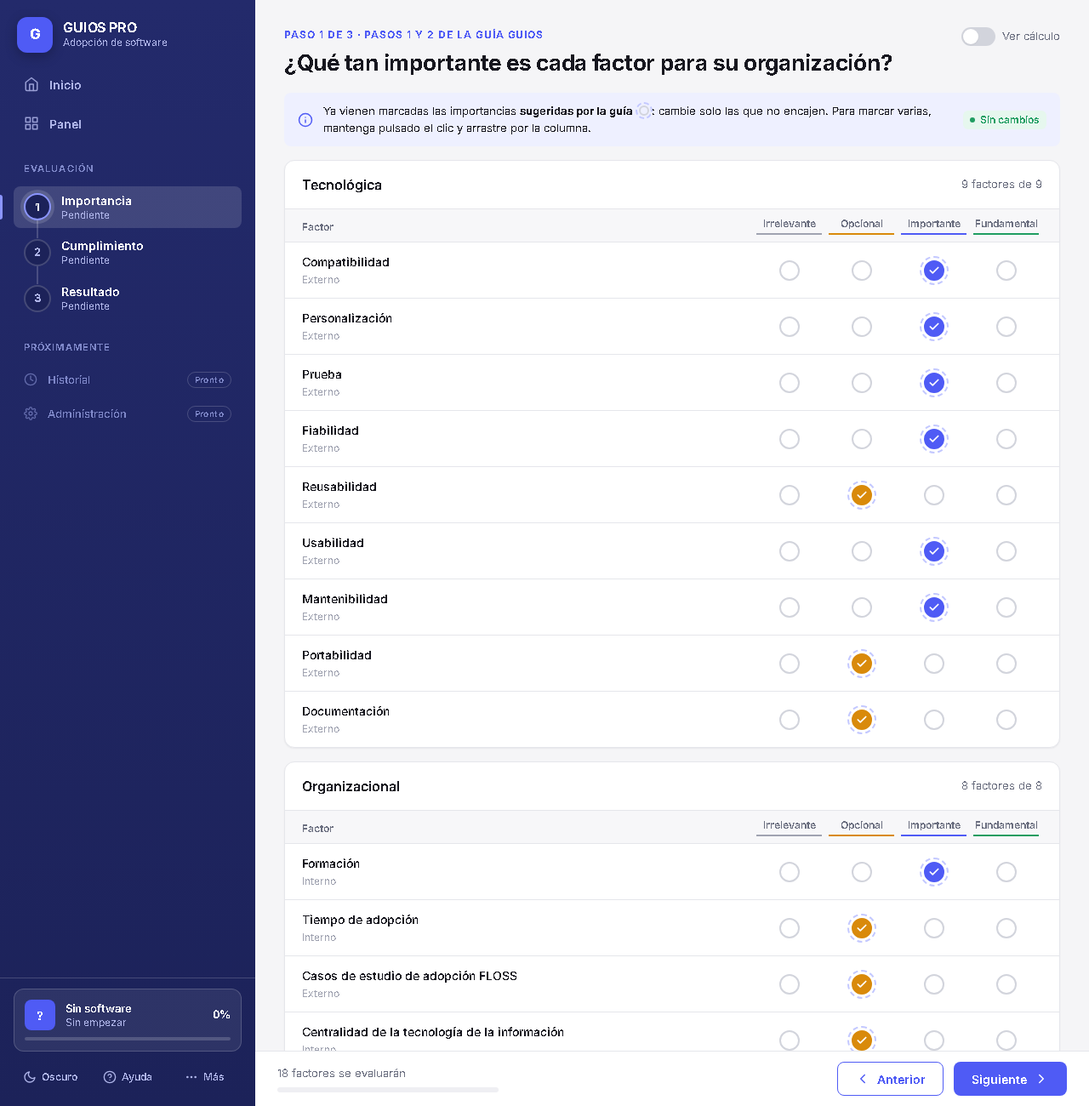
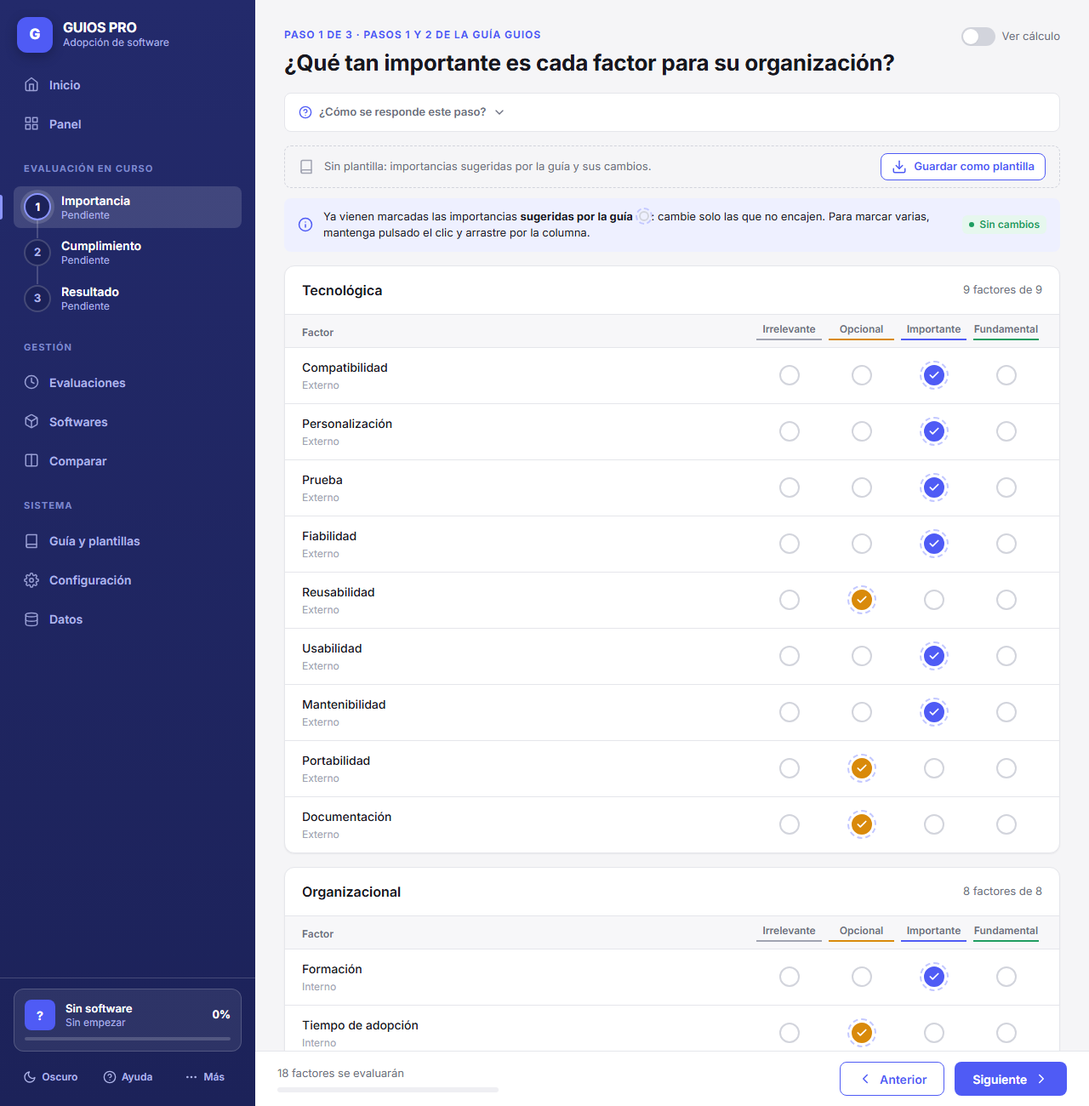
docs: estado de implementación, sistema de diseño y capturas nuevas
- SPRINT-0: RF-10 a RF-30 marcados, estado por módulo, desviaciones y
  pendientes; se retira la sección 3.5 duplicada que trajo la rama
  requisitos (ya resuelta por la renumeración del 27/09).
- README, CLAUDE.md y DESIGN-SYSTEM con los módulos y componentes nuevos.
- Capturas regeneradas, con las 12 pantallas nuevas.

diff --git a/scripts/screenshots.py b/scripts/screenshots.py
@@ -42,6 +42,19 @@ SHOTS = [
     ("09-panel-vacio", "panel", "?theme=light", 1280, 800),
     ("10-paso-3-4-vacio", "paso-3-4", "?theme=light", 1280, 900),
     ("11-movil-paso-1-2", "paso-1-2", "?theme=light", 500, 1400),
+    # Pantallas de gestión (Sprints 1-4). El demo carga Moodle, Chamilo y Open edX.
+    ("12-evaluaciones", "evaluaciones", "?demo=1&theme=light", 1280, 900),
+    ("13-detalle", "evaluacion/ev_demo_moodle", "?demo=1&theme=light", 1280, 1400),
+    ("14-informe", "informe/ev_demo_moodle", "?demo=1&theme=light", 1280, 2400),
+    ("15-comparar", "comparar/ev_demo_moodle,ev_demo_chamilo", "?demo=1&theme=light", 1280, 2000),
+    ("16-softwares", "softwares", "?demo=1&theme=light", 1280, 800),
+    ("17-ficha-software", "software/sw_demo_moodle", "?demo=1&theme=light", 1280, 900),
+    ("18-administracion", "administracion", "?demo=1&theme=light", 1280, 1100),
+    ("19-configuracion", "configuracion", "?theme=light", 1280, 1100),
+    ("20-datos", "datos", "?demo=1&theme=light", 1280, 1300),
+    ("21-comparar-oscuro", "comparar/ev_demo_moodle,ev_demo_chamilo", "?demo=1&theme=dark", 1280, 1200),
+    ("22-movil-evaluaciones", "evaluaciones", "?demo=1&theme=light", 500, 1200),
+    ("23-movil-informe", "informe/ev_demo_moodle", "?demo=1&theme=light", 500, 2400),
 ]
 
 

diff --git a/docs/SPRINT-0.md b/docs/SPRINT-0.md
@@ -59,8 +59,8 @@ La decisión de adoptar un software (por ejemplo, migrar de una suite privativa 
 | P4 | Paso 5: clasificación FODA automática | Hecho |
 | P5 | Paso 6: recomendación A/B/C según matriz + factores críticos | Hecho |
 | P6 | Informe exportable (PDF por impresión, JSON) e importación | Hecho |
-| P7 | Catálogo de software y evaluaciones guardadas en servidor (PostgreSQL) | Diseñado (`db/schema.sql`), Sprint 2-3 |
-| P8 | Comparación de varios candidatos y panel del decisor | Sprint 4 |
+| P7 | Catálogo de software y evaluaciones guardadas en servidor | Hecho: catálogo local y servidor `api/` (SQLite; diseño PostgreSQL en `db/schema.sql`) |
+| P8 | Comparación de varios candidatos y panel del decisor | Hecho |
 
 ### 2.5 ¿Cómo mejorará el nuevo sistema? — Propuesta (TO-BE)
 
@@ -91,27 +91,27 @@ Interfaz sin guía                          → UI kit consistente, responsive y
 | RF-07 | Emitir la recomendación A/B/C con el texto de la matriz e indicar los factores críticos. | Alta | 0 ✔ |
 | RF-08 | Exportar el informe (PDF) y los datos (JSON); importar una evaluación previa. | Media | 0 ✔ |
 | RF-09 | Guardar el avance automáticamente y permitir limpiar los datos de una evaluación anterior, con confirmación. | Media | 0 ✔ |
-| RF-10 | Persistir evaluaciones en un servidor con historial por organización. | Alta | 2-3 |
-| RF-11 | Registrar y consultar los softwares candidatos en un catálogo reutilizable. | Alta | 2 |
-| RF-12 | Administrar el catálogo de la guía (factores, subfactores, reglas) desde la interfaz. | Media | 3 |
-| RF-13 | Comparar varias evaluaciones/candidatos en un tablero. | Media | 4 |
-| RF-14 | Adjuntar observaciones/evidencias por subfactor. | Baja | 4 |
+| RF-10 | Persistir evaluaciones en un servidor con historial por organización. | Alta | 2-3 ✔ |
+| RF-11 | Registrar y consultar los softwares candidatos en un catálogo reutilizable. | Alta | 2 ✔ |
+| RF-12 | Administrar el catálogo de la guía (factores, subfactores, reglas) desde la interfaz. | Media | 3 ✔ |
+| RF-13 | Comparar varias evaluaciones/candidatos en un tablero. | Media | 4 ✔ |
+| RF-14 | Adjuntar observaciones/evidencias por subfactor. | Baja | 4 ✔ |
 | RF-15 | Navegar libremente entre los pasos y ver el detalle del cálculo de cada resultado. | Alta | 0 ✔ |
-| RF-16 | Guardar los datos de la organización y las preferencias del usuario una sola vez. | Alta | 1 |
-| RF-17 | Mostrar ayuda contextual en cada paso, incluido el significado de cada nivel de la escala. | Alta | 1 |
-| RF-18 | Avisar de los factores sin responder y marcar el resultado como parcial. | Alta | 1 |
-| RF-19 | Buscar factores por nombre y filtrar los que están pendientes. | Media | 1 |
-| RF-20 | Mostrar un dashboard con el estado de las evaluaciones, el avance, la distribución FODA y el cumplimiento por dimensión. | Alta | 1, 4 |
-| RF-21 | Listar las evaluaciones propias, con opciones de continuar, duplicar, eliminar y abrir en solo lectura. | Alta | 2, 4 |
-| RF-22 | Mostrar gráficos de resultados: radar por dimensión y barras de la matriz FODA. | Alta | 2 |
-| RF-23 | Generar un informe imprimible con portada, recomendación, FODA, gráficos y detalle por factor. | Media | 2, 5 |
-| RF-24 | Mostrar la línea de tiempo de las evaluaciones de un software. | Media | 3 |
-| RF-25 | Guardar y reutilizar plantillas de importancia de factores. | Media | 3 |
-| RF-26 | Importar y exportar softwares, plantillas y evaluaciones. | Media | 4 |
-| RF-27 | Asignar etiquetas y notas internas a cada software del catálogo. | Baja | 4 |
-| RF-28 | Sugerir con IA la valoración de cada subfactor, con justificación y nivel de confianza; el evaluador acepta o descarta cada sugerencia. | Alta | 2-3 |
-| RF-29 | Generar con IA un resumen ejecutivo editable que no contradiga la recomendación calculada. | Alta | 4 |
-| RF-30 | Sincronizar las evaluaciones locales con el servidor y resolver conflictos entre versiones. | Alta | 3 |
+| RF-16 | Guardar los datos de la organización y las preferencias del usuario una sola vez. | Alta | 1 ✔ |
+| RF-17 | Mostrar ayuda contextual en cada paso, incluido el significado de cada nivel de la escala. | Alta | 1 ✔ |
+| RF-18 | Avisar de los factores sin responder y marcar el resultado como parcial. | Alta | 1 ✔ |
+| RF-19 | Buscar factores por nombre y filtrar los que están pendientes. | Media | 1 ✔ |
+| RF-20 | Mostrar un dashboard con el estado de las evaluaciones, el avance, la distribución FODA y el cumplimiento por dimensión. | Alta | 1, 4 ✔ |
+| RF-21 | Listar las evaluaciones propias, con opciones de continuar, duplicar, eliminar y abrir en solo lectura. | Alta | 2, 4 ✔ |
+| RF-22 | Mostrar gráficos de resultados: radar por dimensión y barras de la matriz FODA. | Alta | 2 ✔ |
+| RF-23 | Generar un informe imprimible con portada, recomendación, FODA, gráficos y detalle por factor. | Media | 2, 5 ✔ |
+| RF-24 | Mostrar la línea de tiempo de las evaluaciones de un software. | Media | 3 ✔ |
+| RF-25 | Guardar y reutilizar plantillas de importancia de factores. | Media | 3 ✔ |
+| RF-26 | Importar y exportar softwares, plantillas y evaluaciones. | Media | 4 ✔ |
+| RF-27 | Asignar etiquetas y notas internas a cada software del catálogo. | Baja | 4 ✔ |
+| RF-28 | Sugerir con IA la valoración de cada subfactor, con justificación y nivel de confianza; el evaluador acepta o descarta cada sugerencia. | Alta | 2-3 ✔ |
+| RF-29 | Generar con IA un resumen ejecutivo editable que no contradiga la recomendación calculada. | Alta | 4 ✔ |
+| RF-30 | Sincronizar las evaluaciones locales con el servidor y resolver conflictos entre versiones. | Alta | 3 ✔ |
 
 ### 3.2 Requisitos no funcionales
 
@@ -137,7 +137,7 @@ Interfaz sin guía                          → UI kit consistente, responsive y
 
 ### 3.3 Product Backlog inicial
 
-> **Versión vigente y ampliada:** la lista completa de requisitos (RF-01 a RF-26), el backlog con las 36 historias y su trazabilidad están en [`ENTREGA-TAREA1.md`](ENTREGA-TAREA1.md), que es el documento que se entrega. La tabla siguiente conserva el backlog inicial del Sprint 0.
+> **Versión vigente y ampliada:** la lista completa de requisitos (RF-01 a RF-26), el backlog con las 36 historias y su trazabilidad están en [`ENTREGA-TAREA1.md`](ENTREGA-TAREA1.md), que es el documento que se entrega. La tabla siguiente conserva el backlog inicial del Sprint 0. Las filas HU-14 en adelante se añadieron desde la rama `requisitos` con la numeración anterior a la renumeración del 27/09/2026 (ver §3.5); para los identificadores vigentes, usar `ENTREGA-TAREA1.md` y `jira/tareas.json`.
 
 | ID | Historia de usuario | Criterios de aceptación | Prioridad | Puntos | Sprint |
 |---|---|---|---|---|---|
@@ -199,20 +199,6 @@ Además, tres requisitos ya incluidos en la sección 3.1 quedan sujetos a confir
 - **RF-05:** el valor «No sé» cuenta hoy como 2 en la media (pregunta 5).
 - **RF-07:** la nomenclatura de las recomendaciones A/B/C y el criterio de decisión difieren entre la tesis y la matriz de 2021 (preguntas 1 y 3).
 
-### 3.5 Pendiente: numeración incompleta en el Product Backlog
-
-Al construir la tabla de la sección 3.3 se detectó que los IDs **HU-21, HU-29, HU-32 y
-HU-33** no existen ni en [`docs/jira/tareas.json`](jira/tareas.json) (la fuente de
-verdad) ni en [`docs/jira/TAREAS.md`](jira/TAREAS.md). La numeración salta de HU-20 a
-HU-22, y de HU-31 a HU-34.
-
-Se descarta que sea un desfase entre el JSON y el `.md` generado, porque el problema
-está también en el JSON.
-
-**Pendiente:** confirmar con el responsable de `tareas.json` si esas historias existieron
-y se perdieron, o si nunca se llegaron a escribir. Si aparecen, se agregarán a la tabla
-de la sección 3.3.
-
 ### 3.5 Numeración y trazabilidad de las historias
 
 Se revisó la numeración tras detectar huecos (HU-21, HU-29, HU-32 y HU-33 no existían). El origen fue la eliminación del módulo de cuentas de usuario del alcance: las historias de registro, inicio de sesión, permisos, perfil e invitaciones se retiraron y dejaron su número libre.
@@ -224,6 +210,37 @@ Se revisó la numeración tras detectar huecos (HU-21, HU-29, HU-32 y HU-33 no e
 - **HU-09** se implementa en tres tareas (HU-09a API de evaluaciones, HU-09b API de historial, HU-09c pantalla de historial), por lo que conserva el sufijo.
 
 La fuente de verdad es [`jira/tareas.json`](jira/tareas.json); `npm run build:jira` regenera la tabla y el CSV del tablero, de modo que no pueden volver a desincronizarse.
+
+### 3.6 Estado de implementación (16/11/2026)
+
+Todos los requisitos funcionales comprometidos (RF-01 a RF-30) están implementados en `main`, y la app sigue abriéndose con doble clic. El recorrido completo se verificó en Edge con el servidor y la IA simulada: alta, plantilla, respuestas con evidencias, aviso de pendientes, sugerencias de IA, resumen, sincronización, catálogo, nueva versión de la guía, comparación y vista a 390 px.
+
+| Módulo del alcance | Dónde está | Requisitos |
+|---|---|---|
+| M1 · Configuración | Pantalla *Configuración*: organización, sector, logotipo, evaluador por defecto, tema y servidor, con aviso al salir sin guardar | RF-16 |
+| M2 · Catálogo de software | *Softwares* (buscador, filtros por licencia y etiqueta) y *Ficha* (datos, notas, etiquetas con color y evaluaciones asociadas); al empezar una evaluación se elige del catálogo | RF-11, RF-27 |
+| M3 · Evaluación | Pasos 1-3 con ayuda plegable (textos en `data/recomendaciones.json`), plantillas, buscador y filtro de pendientes, observación y enlace por pregunta, aviso de pendientes con enlace a cada factor | RF-14, RF-17, RF-18, RF-19, RF-25 |
+| M4 · Dashboard e informes | *Panel* con todas las evaluaciones y línea de tiempo filtrable; *Informe* con portada, recomendación, resumen ejecutivo, FODA, radar por dimensión, barras FODA con tabla equivalente, detalle y evidencias | RF-20, RF-22, RF-23, RF-24 |
+| M5 · Historial y comparación | *Evaluaciones* (buscar, filtrar por estado, continuar, duplicar, eliminar), *Detalle* en solo lectura y *Comparar* (2 a 5 evaluaciones completadas) | RF-13, RF-21 |
+| M6 · Administración de la guía | *Guía y plantillas*: edición validada de factores, subfactores y textos de recomendación, publicada como versión nueva; cada evaluación conserva su versión; restaurar la oficial | RF-12, RF-25, RNF-17 |
+| M7 · Asistente de IA | Botón *Sugerir con IA* por factor (aceptar o descartar cada sugerencia, origen marcado) y *Redactar con IA* el resumen (validado contra la recomendación calculada) | RF-28, RF-29, RNF-13, RNF-14 |
+| M8 · Portabilidad | *Datos*: exportar una selección, importar con vista previa y resolución de duplicados (compatible con el JSON anterior), sincronización con conflictos | RF-10, RF-26, RF-30, RNF-12 |
+
+Servidor (`api/`): API REST documentada en `api/openapi.yaml`, catálogo con la misma forma que `data.js`, CRUD de softwares y plantillas, evaluaciones con revisiones, sincronización por lotes, dashboard, comparación, informe HTML e IA (Claude) con límite diario por organización. Reutiliza `engine.js`, así que servidor y navegador calculan lo mismo (RNF-11, con prueba).
+
+**Decisiones y desviaciones a validar con el equipo:**
+
+- El servidor usa **SQLite embebido** (`node:sqlite`, `api/schema.sqlite.sql`) para no añadir dependencias; `db/schema.sql` sigue siendo el diseño PostgreSQL para un despliegue institucional.
+- El umbral FODA y las condiciones de la matriz **no** se editan desde la administración, porque RF-35 sigue pendiente de validación (§3.4).
+- Las versiones locales de la guía viven en el navegador. El servidor valida contra el catálogo oficial, así que rechaza las evaluaciones que usan subfactores añadidos localmente; la pantalla *Datos* las muestra como rechazadas.
+
+**Pendiente (no se puede cerrar solo con código):**
+
+- RNF-15: faltan los 30 casos de referencia reales en `api/ia/casos/` (hay 2 de ejemplo) para medir la calidad de la IA con `api/ia/evaluar-calidad.js`.
+- RNF-16: la política de datos está redactada en `api/README.md`, pero debe aprobarse por escrito antes de usar una clave real.
+- RNF-07 y RNF-06 (HTTPS): dependen del despliegue institucional, que está fuera del alcance (§1.3 de `ENTREGA-TAREA1.md`).
+- RNF-09: falta medir Lighthouse en las pantallas principales.
+- Los requisitos de §3.4 (RF-31 a RF-36) siguen esperando la respuesta del docente.
 
 ## 4. Análisis y diseño
 

diff --git a/docs/DESIGN-SYSTEM.md b/docs/DESIGN-SYSTEM.md
@@ -6,7 +6,7 @@ Implementación en CSS del UI kit de referencia (capturas: Pop-Up, List, Action 
 |---|---|
 | `tokens.css` | Variables CSS (`:root`) para color, tipografía, espaciado, radios, sombras; variante oscura bajo `[data-theme="dark"]` |
 | `components.css` | Componentes reutilizables, sin conocimiento de la app |
-| `app.css` | Layout de las cinco pantallas (Inicio, pasos 1-3 y Panel), sidebar, impresión y breakpoints |
+| `app.css` | Layout de las pantallas (Inicio, pasos 1-3, Panel, Evaluaciones, Detalle, Informe, Comparar, Softwares, Ficha, Guía y plantillas, Configuración, Datos), sidebar, impresión y breakpoints |
 
 ## Tokens
 
@@ -33,6 +33,8 @@ Implementación en CSS del UI kit de referencia (capturas: Pop-Up, List, Action 
 | `--sidebar-fg / -fg-2 / -fg-3` | `#ffffff` / `#aeb4e8` / `#7f88c9` | Texto del sidebar: principal, secundario y atenuado |
 | `--sidebar-hover / -active / -line` | blancos translúcidos | Estados y conectores sobre la superficie de marca |
 | `--sidebar-accent` | `#8b95ff` | Indicador de la sección actual, paso actual y barra de progreso del sidebar |
+| `--series-1 … -5` | azul `#2a78d6`, naranja `#eb6834`, aguamarina `#1baf7a`, ámbar `#eda100`, magenta `#e87ba4` (variantes para oscuro) | Series categóricas de los gráficos, en orden fijo. Validadas para daltonismo; como dos tonos quedan por debajo de 3:1 sobre blanco, **siempre** van con leyenda numerada y tabla equivalente |
+| `--chart-grid` | `#e5e6eb` | Anillos y ejes de los gráficos |
 
 ## Componentes (clase → equivalente del UI kit)
 
@@ -65,7 +67,7 @@ Implementación en CSS del UI kit de referencia (capturas: Pop-Up, List, Action 
 | `.foda-board` (`.foda-q`, `.foda-core`) | — | **Matriz FODA**: cuatro cuadrantes sólidos (`--q` = `--foda-*-solid`) con icono, título, conteo y lista de factores en blanco con su cumplimiento medio; la fila inferior va en espejo (título en el borde exterior). En el centro, un núcleo circular F·O·D·A con anillo de cuatro colores (`conic-gradient`). Encima, `.foda-axis` (origen interno / externo). En móvil: una columna, sin núcleo y con la letra junto al título |
 | `.foda-balance` | — | Balance a favor / en contra en la cabecera de la tarjeta FODA: dos cifras y barra proporcional |
 | `.toast` | — | Notificación efímera |
-| `.sidebar` (`.side-top`, `.side-nav`, `.side-link`, `.side-title`, `.side-bottom`) | List + Card | Barra lateral fija de 300 px sobre superficie sólida de marca: logo; Inicio y Panel (`app.js → NAV_MAIN`); línea de tiempo de los pasos; «Próximamente» (`NAV_EXTRA`, `soon: true` = enlace atenuado con `.soon`). La sección actual lleva un indicador vertical de 3 px en `--sidebar-accent`. Por debajo de 960 px se convierte en cajón (`.is-open`) con `.sidebar-backdrop` |
+| `.sidebar` (`.side-top`, `.side-nav`, `.side-link`, `.side-title`, `.side-bottom`) | List + Card | Barra lateral fija de 300 px sobre superficie sólida de marca: logo; Inicio y Panel (`app.js → NAV_MAIN`); línea de tiempo de los pasos; grupos Gestión y Sistema (`NAV_GROUPS`); `.soon.is-alert` muestra un contador rojo (p. ej. conflictos de sincronización). La sección actual lleva un indicador vertical de 3 px en `--sidebar-accent`. Por debajo de 960 px se convierte en cajón (`.is-open`) con `.sidebar-backdrop` |
 | `.side-eval` | Card: Horizontal | Tarjeta de la evaluación en curso en el pie: avatar con la inicial del software, nombre, estado (o recomendación), % y barra; enlaza al Panel |
 | `.side-actions > .side-tool` | — | Barra de herramientas del pie con icono + etiqueta: tema (Oscuro/Claro), Ayuda y Más (menú `.menu-up`) |
 | `.side-steps > .side-step` | Page Control (vertical) | **Línea de tiempo**: nodo de 32 px (`--node`) con el número del paso o un check al completarse, riel vertical continuo entre nodos que se colorea al avanzar, y texto en dos niveles (`.step-title`, `.step-state`). El enlace lleva `aria-label` completo («Paso 1 de 3: …»); `.is-current`, `.is-done` |
@@ -78,6 +80,23 @@ Implementación en CSS del UI kit de referencia (capturas: Pop-Up, List, Action 
 | `.subfactor-row` | List | Pregunta del paso 2 con su `.choice`. `.is-active` (fondo suave y barra izquierda) marca la pregunta que responden las teclas 1-4; `.is-answered` atenúa el texto y pone un check en el índice |
 | `.quick-fill` | — | Franja del paso 2: «Responder las n pendientes como: Cumple / Parcial / No cumple» (no pisa las ya respondidas) |
 | `kbd` | — | Tecla de atajo |
+| `.tabs > .tab` | — | Pestañas (`role="tab"`, `aria-selected`) de *Guía y plantillas* |
+| `.tag`, `.tag-{primary,success,warning,danger,info,neutral}`, `.tag-row` | List → chip | Etiqueta de color de un software, con icono; dentro de formularios lleva botón de quitar |
+| `.toolbar` + `.search` | — | Barra de filtros encima de una lista: búsqueda con icono, `select-sm` y contador. El campo conserva el foco al re-renderizar |
+| `.rows > .row-item` | List | Fila con varias acciones (historial, versiones): casilla, avatar, `.row-main` (título enlazado, metadatos, `.row-meta` con badges) y `.row-actions`. En móvil las acciones bajan a una segunda línea |
+| `.help-box` + `.level-list` | — | Ayuda plegable de cada paso (HU-14) con un recuadro por nivel de la escala, coloreado con `--c` |
+| `.template-bar` | — | Franja del paso 1: plantilla aplicada, aplicar otra y guardar como plantilla |
+| `.note-btn`, `.note-editor` | — | Observación y enlace de evidencia por pregunta del paso 2 |
+| `.ia-suggestion` | — | Sugerencia de IA bajo la pregunta: valor, confianza, justificación y botones Aceptar / Descartar. La respuesta aceptada lleva un `.badge-xs` «IA» |
+| `.hbars > .hbar` | — | Barras horizontales de una serie (FODA) con etiqueta y valor en texto |
+| `.chart` (SVG de `charts.js`) | — | Radar por dimensión: anillos 1-4, anillo discontinuo del umbral FODA, áreas con `--s` al 12 % y puntos con `<title>` como tooltip. Siempre con tabla equivalente en `.chart-table` |
+| `.timeline` | Page Control (vertical) | Línea de tiempo del panel: círculo con la letra de la recomendación (relleno `--foda-*-solid`), software y fecha; cada elemento abre el informe |
+| `.meta-grid`, `.report-meta` | — | Rejilla de datos (3 → 2 → 1 columnas) del detalle y de la portada del informe |
+| `.pick` + `.series-key` | — | Selección de evaluaciones en el comparador: el número y el borde llevan el color de su serie |
+| `.compare-table` | — | Tabla del comparador: grupos (`.group-row`), mejor valor de la fila con estrella y negrita (`.is-best`), primera columna fija en móvil |
+| `.link-btn` | — | Botón con aspecto de enlace dentro de un texto |
+| `.popup.popup-wide` | Pop-Up | Pop-up para formularios (alta de software). `onConfirm` puede devolver `false` para mantenerlo abierto con un error |
+| `.admin-savebar` | — | Barra fija inferior del editor de la guía con errores de validación y «Guardar como versión nueva» |
 
 Iconos: SVG inline estilo *feather* (24 px, trazo 2) definidos en `app.js → ICONS`. Añadir uno nuevo = añadir la ruta al diccionario.
 

diff --git a/README.md b/README.md
@@ -6,7 +6,8 @@ Sistema informático que automatiza la **guía GUIOS** para evaluar si una soluc
 |---|---|
 | **Modelo** | 3 dimensiones (Tecnológica, Organizacional, Económica) · 18 factores · 61 subfactores |
 | **Flujo** | 3 pasos para el usuario: Importancia (GUIOS 1-2) → Cumplimiento (GUIOS 3-4) → Resultado: FODA y recomendación A/B/C (GUIOS 5-6) |
-| **Stack actual** | HTML + CSS + JavaScript sin dependencias. Se abre con doble clic. |
+| **Módulos** | Configuración · Catálogo de softwares (etiquetas, ficha) · Evaluación en 3 pasos (ayuda, buscador, avisos, evidencias) · Panel con línea de tiempo · Historial y detalle en solo lectura · Informe imprimible con gráficos · Comparador de 2 a 5 candidatos · Administración versionada de la guía y plantillas · Importar/exportar · Sincronización y asistente de IA opcionales |
+| **Stack actual** | Cliente: HTML + CSS + JavaScript sin dependencias, se abre con doble clic. Servidor opcional ([`api/`](api/)): Node ≥ 22 sin dependencias, SQLite embebido e IA de Claude. |
 | **Metodología** | SCRUM · ver [`docs/SPRINT-0.md`](docs/SPRINT-0.md) |
 | **Base teórica** | Tesis doctoral Rea Sánchez (2022) · resumen y dudas abiertas en [`docs/REUNION-DOCENTE.md`](docs/REUNION-DOCENTE.md) |
 | **Entrega del avance** | [`docs/entregables/TAREA1-GUIOS-PRO.docx`](docs/entregables/TAREA1-GUIOS-PRO.docx) (informe en Word) · contenido en [`docs/ENTREGA-TAREA1.md`](docs/ENTREGA-TAREA1.md) · figuras en [`docs/graficos/`](docs/graficos/) |
@@ -18,7 +19,19 @@ Sistema informático que automatiza la **guía GUIOS** para evaluar si una soluc
 2. Abrir [`app/index.html`](app/index.html) en Chrome, Edge o Firefox (no requiere servidor ni instalación).
 3. Opcional, con servidor local: `npm run serve` → http://localhost:8080
 
-Para ver el flujo completo con datos de prueba: menú **Más → Cargar ejemplo** o abrir `app/index.html?demo=1`; el estado general está en **Panel** (`#panel`). El botón **Oscuro/Claro** del pie del sidebar cambia el tema. En el paso 2 las teclas `1`–`4` responden la pregunta resaltada.
+Para ver el flujo completo con datos de prueba: menú **Más → Cargar ejemplo** o abrir `app/index.html?demo=1` (carga Moodle, Chamilo y Open edX). El estado general está en **Panel** (`#panel`), el historial en **Evaluaciones** y la comparación en **Comparar**. En el paso 2 las teclas `1`–`4` responden la pregunta resaltada.
+
+### Servidor opcional (sincronización e IA)
+
+Sin servidor la aplicación funciona completa con los datos del navegador. Para sincronizar varios equipos y activar el asistente de IA:
+
+```bash
+npm run api                                   # http://localhost:8787 (SQLite en api/data/)
+IA_PROVEEDOR=simulado npm run api             # demo de la IA sin clave
+ANTHROPIC_API_KEY=... npm run api             # IA real; la clave solo vive en el servidor
+```
+
+Después, en la app: **Configuración → Usar servidor** con la dirección `http://localhost:8787`. Detalles, variables de entorno y política de privacidad en [`api/README.md`](api/README.md); contrato en [`api/openapi.yaml`](api/openapi.yaml).
 
 ## Estructura
 
@@ -30,21 +43,26 @@ app/                 Aplicación web (entregable ejecutable)
   css/app.css        Layout de pantallas, impresión y responsive
   js/data.js         GENERADO desde data/ — catálogo de dimensiones/factores/subfactores
   js/engine.js       Motor de cálculo (lógica pura, probada con node --test)
-  js/app.js          Interfaz: render por pantallas, estado en localStorage, exportar/importar
+  js/store.js        Almacén local: evaluaciones, softwares, plantillas, versiones de la guía, import/export
+  js/charts.js       Gráficos SVG (radar por dimensión)
+  js/api.js          Cliente del servidor opcional: sincronización con conflictos e IA
+  js/app.js          Interfaz: render por pantallas (SCREENS[]) y eventos
+api/                 Servidor REST opcional (Node sin dependencias, SQLite, IA), OpenAPI y pruebas
 data/                Fuente de verdad de los datos maestros (TSV + JSON)
 db/                  Diseño físico PostgreSQL (schema.sql) y seed GENERADO (seed.sql)
 docs/                Sprint 0, sistema de diseño, plan con IA, equipo y cronograma
   jira/              Reparto de tareas (tareas.json) y CSV importable a Jira
 legacy/              Prototipo GUIOSAD original, manual técnico y matriz de recomendación
 scripts/             Generadores: CSV -> data.js, data.js -> seed.sql
-tests/               Pruebas del motor de cálculo
+tests/               Pruebas del motor de cálculo y del almacén local
 .github/workflows/   CI: regenera datos, ejecuta pruebas y publica en GitHub Pages
 ```
 
 ## Comandos
 
 ```bash
-npm test               # pruebas del motor (node --test)
+npm test               # pruebas del motor, del almacén y de la API (node --test)
+npm run api            # servidor REST opcional en :8787
 npm run build:data     # regenerar app/js/data.js y db/seed.sql desde data/
 npm run check:generated# falla si los archivos generados están desactualizados
 npm run serve          # servidor estático en :8080
@@ -53,7 +71,7 @@ npm run build:diagramas# regenera las figuras del informe en docs/graficos/
 npm run build:informe  # regenera docs/entregables/TAREA1-GUIOS-PRO.docx
 ```
 
-Requisitos de desarrollo: Node ≥ 20 y Python ≥ 3.10 (solo para los generadores). La app final no necesita ninguno.
+Requisitos de desarrollo: Node ≥ 22 (pruebas y servidor; usa `node:sqlite`) y Python ≥ 3.10 (solo para los generadores). La app final no necesita ninguno.
 
 ## Modificar el modelo (factores / subfactores / recomendaciones)
 

diff --git a/CLAUDE.md b/CLAUDE.md
@@ -4,11 +4,12 @@ Este archivo lo lee Claude Code (y otros asistentes) al abrir el repositorio. Re
 
 ## Qué es
 
-Sistema de evaluación de adopción de software basado en la guía GUIOS (tesis doctoral Rea Sánchez, 2022). Proyecto académico (Ingeniería de Software, asignatura Metodologías Ágiles) gestionado con SCRUM. El entregable ejecutable es `app/index.html`: **debe seguir funcionando al abrirse con doble clic** (protocolo `file://`, sin servidor, sin build, sin `fetch()`, sin ES modules).
+Sistema de evaluación de adopción de software basado en la guía GUIOS (tesis doctoral Rea Sánchez, 2022). Proyecto académico (Ingeniería de Software, asignatura Metodologías Ágiles) gestionado con SCRUM. El entregable ejecutable es `app/index.html`: **debe seguir funcionando al abrirse con doble clic** (protocolo `file://`, sin servidor, sin build, sin `fetch()` de archivos locales, sin ES modules). El único `fetch()` permitido es el de `app/js/api.js` hacia el servidor opcional (`api/`), y la app debe funcionar igual si el servidor no está.
 
 ## Comandos
 
-- `npm test` — pruebas del motor (obligatorio antes de cada commit que toque `engine.js` o `data/`).
+- `npm test` — pruebas del motor, del almacén local y de la API (obligatorio antes de cada commit que toque `engine.js`, `store.js`, `api/` o `data/`). Requiere Node ≥ 22.13 (`node:sqlite`).
+- `npm run api` — servidor REST opcional en :8787 (`IA_PROVEEDOR=simulado` para probar la IA sin clave).
 - `npm run build:data` — regenera `app/js/data.js` y `db/seed.sql`. **Nunca editar esos dos archivos a mano.**
 - `npm run serve` — servidor local en :8080 (opcional).
 - Verificación visual: abrir `app/index.html?demo=1#paso-5-6` (carga una evaluación de ejemplo).
@@ -19,10 +20,11 @@ Sistema de evaluación de adopción de software basado en la guía GUIOS (tesis 
 2. **Lógica de cálculo solo en `app/js/engine.js`** (pura, sin DOM). La UI (`app.js`) solo llama a `GuiosEngine.evaluate()`. Cada cambio al algoritmo requiere un test en `tests/`.
 3. **Algoritmo fiel al prototipo original** (`legacy/main.py`) y a la matriz `legacy/MATRIZ RECOMENDACION GUIOSAD 2021.xlsx`. Escalas 1..4 (no Likert 1..5). No "mejorar" el algoritmo sin una historia de usuario que lo pida.
 4. **Diseño**: usar únicamente tokens de `app/css/tokens.css` y componentes de `app/css/components.css` (ver `docs/DESIGN-SYSTEM.md`). No introducir colores/tamaños literales en `app.css` ni estilos inline salvo variables CSS (`style="--q-color:..."`).
-5. **Sin dependencias de runtime.** Nada de npm packages en la app. Node/Python solo para tests y generadores.
+5. **Sin dependencias de runtime.** Nada de npm packages en la app ni en `api/` (solo módulos de Node: `node:http`, `node:sqlite`, `fetch`). Python solo para generadores.
 6. **Idioma**: UI, comentarios, commits y documentación en español. Identificadores de código en inglés (`evaluate`, `relativeIndex`), claves de datos en español (`importanciaSugerida`, `alcance`) porque reflejan el vocabulario de la guía.
 7. **Accesibilidad**: todo control con etiqueta (`aria-label` o `<label>`), foco visible, contraste AA, funcionar a 390 px de ancho.
 8. **Commits**: Conventional Commits en español (`feat:`, `fix:`, `docs:`, `data:`, `design:`, `chore:`). Un commit por historia de usuario o cambio atómico.
+9. **IA**: la clave de Anthropic solo vive en el servidor (`ANTHROPIC_API_KEY`). Ninguna sugerencia se guarda sin que el evaluador la acepte, todo lo generado con IA se marca, y la recomendación siempre sale de `engine.js`, nunca del modelo.
 
 ## Mapa rápido
 
@@ -32,8 +34,13 @@ Sistema de evaluación de adopción de software basado en la guía GUIOS (tesis 
 | Cambiar la importancia sugerida o alcance de un factor | `data/factors.csv` |
 | Cambiar el texto o la condición de una recomendación | `data/recomendaciones.json` |
 | Cambiar una fórmula / umbral | `engine.js` + test en `tests/engine.test.js` (`umbralFoda` vive en `recomendaciones.json`) |
-| Añadir una pantalla | `SCREENS[]` y una función `renderX()` en `app.js`; estilos en `app.css` |
-| Añadir una sección al sidebar | `NAV_EXTRA[]` en `app.js` (`soon: true` mientras no exista la pantalla); los pasos salen de `SCREENS[]` |
+| Añadir una pantalla | `SCREENS[]` y `RENDER{}` con una función `renderX()` en `app.js`; estilos en `app.css`. Las pantallas con parámetro usan el hash `#id/param` |
+| Añadir una sección al sidebar | `NAV_MAIN` o `NAV_GROUPS` en `app.js`; los pasos salen de `SCREENS[]` |
+| Cambiar qué se guarda en el navegador, migraciones o importar/exportar | `app/js/store.js` + test en `tests/store.test.js` |
+| Indicadores del panel o del comparador | `summarize()` / `compare()` en `engine.js` (los usan la app y el servidor) |
+| Gráficos | `app/js/charts.js` (SVG); colores de series `--series-1..5` en `tokens.css` |
+| Endpoints, base de datos del servidor o IA | `api/` (ver `api/README.md`, `api/openapi.yaml`) + test en `api/tests/` |
+| Sincronización cliente-servidor | `syncDb()` en `app/js/api.js` + `api/tests/cliente-sync.test.js` |
 | Mostrar más información en un paso | Preferir un `<details class="details">` o el interruptor "Ver cálculo"; las pantallas deben quedar simples por defecto |
 | Cambiar colores / tipografía | `tokens.css` (light y dark) |
 | Cambiar el esquema de BD | `db/schema.sql`; el seed se regenera |
